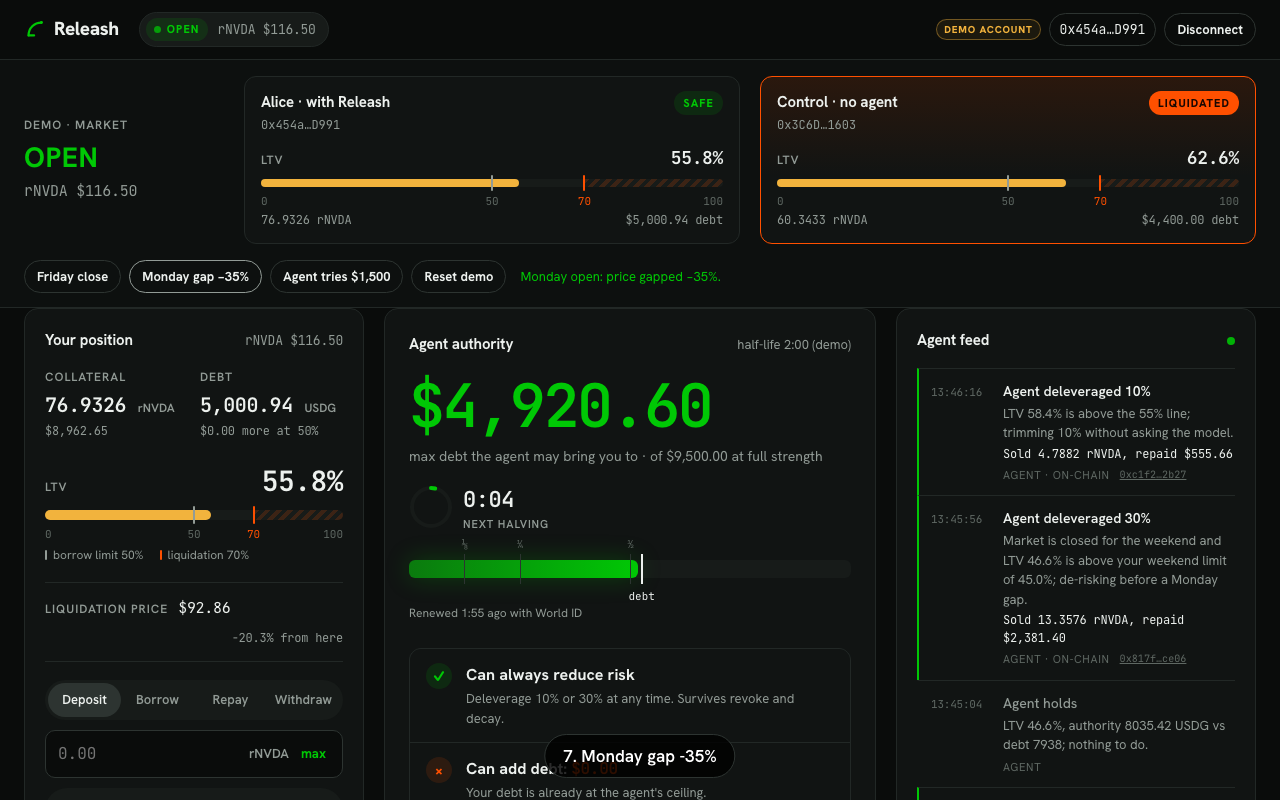
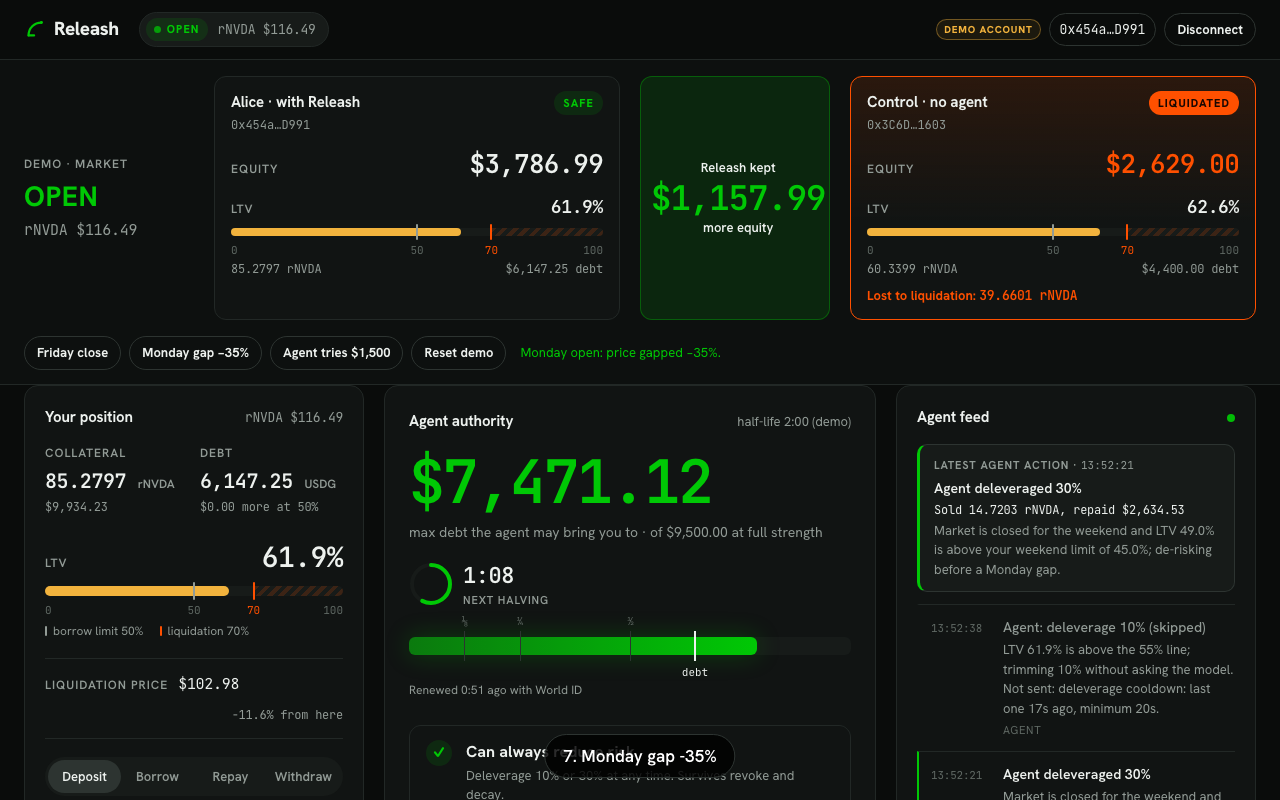
web: equity and lost-to-liquidation in the demo strip with the Releash delta, pinned latest agent action, transient confirmations, reset timer; rehearsal driver

diff --git a/web/src/components/DemoStrip.tsx b/web/src/components/DemoStrip.tsx
@@ -1,5 +1,5 @@
 import { useQueryClient } from "@tanstack/react-query";
-import { useState } from "react";
+import { useEffect, useState } from "react";
 import { getAddress, isAddress, type Address } from "viem";
 import { CONTROL_OWNER, DEMO_KEY, EXPLORER } from "../config";
 import { api, useMarket } from "../lib/backend";
@@ -7,8 +7,23 @@ import { fmtNum, fmtUsd, px8, short, stock, usd } from "../lib/math";
 import { useEvents, useVault, type VaultState } from "../lib/reads";
 import { LtvGauge } from "./LtvGauge";
 
-function Side({ title, tag, owner, state, liquidated }: { title: string; tag: string; owner?: Address; state?: VaultState; liquidated: boolean }) {
-  const status = !state ? "—" : liquidated ? "LIQUIDATED" : state.liquidatable ? "LIQUIDATABLE" : "SAFE";
+type Ev = { name: string; blockNumber: bigint; args: Record<string, unknown> };
+
+/** Liquidations after the position was last opened (Reset demo re-borrows; older runs must not count). */
+function liquidationsSinceOpen(evs?: Ev[]): Ev[] {
+  if (!evs?.length) return [];
+  const opened = evs.reduce((m, e) => (e.name === "Borrowed" && e.blockNumber > m ? e.blockNumber : m), -1n);
+  return evs.filter((e) => e.name === "Liquidated" && e.blockNumber >= opened);
+}
+
+/** Equity = collateral value at the current oracle price minus debt (USDG). */
+export const equityOf = (s?: VaultState) => (s ? usd(s.value) - usd(s.position.debt) : undefined);
+
+function Side({ title, tag, owner, state, events }: { title: string; tag: string; owner?: Address; state?: VaultState; events?: Ev[] }) {
+  const liqs = liquidationsSinceOpen(events);
+  const status = !state ? "—" : liqs.length ? "LIQUIDATED" : state.liquidatable ? "LIQUIDATABLE" : "SAFE";
+  const lost = liqs.reduce((sum, e) => sum + Number(e.args.collateralSeized as bigint) / 1e18, 0);
+  const equity = equityOf(state);
   return (
     <div className={`side side--${status.toLowerCase()}`} data-testid={`side-${tag}`}>
       <div className="side__head">
@@ -20,11 +35,20 @@ function Side({ title, tag, owner, state, liquidated }: { title: string; tag: st
         </div>
         <span className={`pill pill--${status.toLowerCase()}`}>{status}</span>
       </div>
+      <div className="side__equity">
+        <span className="label">Equity</span>
+        <span className="num" data-testid={`equity-${tag}`}>{equity === undefined ? "—" : fmtUsd(equity)}</span>
+      </div>
       <LtvGauge ltvBps={state?.ltvBps ?? 0} size="sm" />
       <div className="side__stats num">
         <span>{state ? fmtNum(stock(state.position.collateral)) : "—"} rNVDA</span>
         <span>{state ? fmtUsd(usd(state.position.debt)) : "—"} debt</span>
       </div>
+      {lost > 0 && (
+        <div className="side__lost" data-testid={`lost-${tag}`}>
+          Lost to liquidation: <span className="num">{fmtNum(lost)} rNVDA</span>
+        </div>
+      )}
     </div>
   );
 }
@@ -68,14 +92,6 @@ export function DemoStrip({ owner, state }: { owner?: Address; state?: VaultStat
   const qc = useQueryClient();
   const [pending, setPending] = useState<string | null>(null);
   const [result, setResult] = useState<{ tone: "ok" | "bad"; text: string; txHash?: string } | null>(null);
-  // Liquidated only counts if it happened after the position was last opened: Reset demo re-borrows,
-  // and an old liquidation must not paint a fresh control red before the gap.
-  const liq = (evs?: { name: string; blockNumber: bigint }[]) => {
-    if (!evs?.length) return false;
-    const last = (n: string) => evs.reduce((m, e) => (e.name === n && e.blockNumber > m ? e.blockNumber : m), -1n);
-    const liquidated = last("Liquidated");
-    return liquidated >= 0n && liquidated >= last("Borrowed");
-  };
 
   async function run(label: string, path: string, body: unknown, describe: (r: never) => { tone: "ok" | "bad"; text: string; txHash?: string }) {
     setPending(label);
@@ -110,6 +126,25 @@ export function DemoStrip({ owner, state }: { owner?: Address; state?: VaultStat
       return { tone: "ok", text: "Demo reset: Alice and the control start again from the same position." };
     });
 
+  // Reset runs a dozen transactions: show it is alive.
+  const [since, setSince] = useState<number | null>(null);
+  const [, tick] = useState(0);
+  useEffect(() => {
+    if (!pending) {
+      setSince(null);
+      return;
+    }
+    setSince(Date.now());
+    const id = setInterval(() => tick((n) => n + 1), 500);
+    return () => clearInterval(id);
+  }, [pending]);
+  const elapsed = since ? Math.floor((Date.now() - since) / 1000) : 0;
+
+  const eqA = equityOf(aliceState);
+  const eqC = equityOf(control.data);
+  const hasBoth = eqA !== undefined && eqC !== undefined && !!aliceState?.position.collateral && !!control.data?.position.collateral;
+  const delta = hasBoth ? eqA! - eqC! : 0;
+
   const busy = !!pending;
   const noKey = !DEMO_KEY;
   return (
@@ -120,16 +155,39 @@ export function DemoStrip({ owner, state }: { owner?: Address; state?: VaultStat
           <strong className={!market.data ? "unknown" : market.data.open === false ? "closed" : ""}>{market.data ? market.data.label : "unknown"}</strong>
           <span className="quiet num">rNVDA {aliceState ? fmtUsd(px8(aliceState.price8)) : "—"}</span>
         </div>
-        <Side title="Alice · with Releash" tag="releash" owner={alice} state={aliceState} liquidated={liq(aliceEvents.data)} />
-        <Side title="Control · no agent" tag="control" owner={controlOwner} state={control.data} liquidated={liq(controlEvents.data)} />
+        <Side title="Alice · with Releash" tag="releash" owner={alice} state={aliceState} events={aliceEvents.data} />
+        <div className={`delta ${hasBoth ? (delta > 0 ? "delta--up" : "delta--down") : ""}`} data-testid="equity-delta" aria-live="polite">
+          {hasBoth ? (
+            delta > 0 ? (
+              <>
+                <span>Releash kept</span>
+                <strong className="num">{fmtUsd(delta)}</strong>
+                <span>more equity</span>
+              </>
+            ) : (
+              <>
+                <span>De-risking cost so far</span>
+                <strong className="num">{fmtUsd(-delta)}</strong>
+                <span>pool slippage</span>
+              </>
+            )
+          ) : (
+            <span className="quiet">Equity difference appears once both positions exist.</span>
+          )}
+        </div>
+        <Side title="Control · no agent" tag="control" owner={controlOwner} state={control.data} events={controlEvents.data} />
       </div>
       <div className="demostrip__controls">
         <button className="btn btn--ghost btn--sm" onClick={close} disabled={busy || noKey} data-testid="demo-close">{pending === "Friday close" ? "Closing…" : "Friday close"}</button>
         <button className="btn btn--ghost btn--sm" onClick={gap} disabled={busy || noKey} data-testid="demo-gap">{pending === "Monday gap" ? "Gapping…" : "Monday gap −35%"}</button>
         <button className="btn btn--ghost btn--sm" onClick={attempt} disabled={busy || noKey || !alice} data-testid="demo-attempt">{pending === "Agent attempt" ? "Agent trying…" : "Agent tries $1,500"}</button>
         <button className="btn btn--ghost btn--sm" onClick={reset} disabled={busy || noKey} data-testid="demo-reset">{pending === "Reset" ? "Resetting…" : "Reset demo"}</button>
-        <span className={`demostrip__result ${result ? `demostrip__result--${result.tone}` : ""}`} role="status" data-testid="demo-result">
-          {noKey ? "Demo controls need VITE_DEMO_KEY." : pending ? `${pending}…` : result?.text}
+        <span className={`demostrip__result ${result ? `demostrip__result--${result.tone}` : ""}`} role="status" data-testid="demo-result" data-pending={pending ? "1" : undefined}>
+          {noKey
+            ? "Demo controls need VITE_DEMO_KEY."
+            : pending
+              ? `${pending}… ${elapsed}s${pending === "Reset" ? " (takes up to a minute)" : ""}`
+              : result?.text}
           {result?.txHash && (EXPLORER ? <a className="mono" href={`${EXPLORER}/tx/${result.txHash}`} target="_blank" rel="noreferrer"> {short(result.txHash)}</a> : <span className="mono"> {short(result.txHash)}</span>)}
         </span>
       </div>

diff --git a/web/src/styles.css b/web/src/styles.css
@@ -299,3 +299,23 @@ main { max-width: 1320px; margin: 0 auto; padding: 0 24px 48px; }
 @media (max-width: 1000px) { .how__grid { grid-template-columns: 1fr; gap: 28px; } }
 @media (max-width: 720px) { .demostrip__controls { padding: 0 16px 12px; } }
 .demostrip__market strong.unknown { color: var(--dim); }
+
+/* ---------------------------------------------------------------- equity (demo money shot) */
+.demostrip__inner { grid-template-columns: 170px minmax(0, 1fr) 190px minmax(0, 1fr); }
+.side__equity { display: flex; align-items: baseline; justify-content: space-between; margin: 2px 0 10px; }
+.side__equity .num { font-size: 26px; font-weight: 600; letter-spacing: -0.03em; }
+.side--liquidated .side__equity .num { color: var(--red); }
+.side__lost { margin-top: 8px; font-size: 13px; font-weight: 700; color: var(--red); }
+.delta { display: grid; align-content: center; justify-items: center; text-align: center; gap: 2px; padding: 10px; border-radius: 12px; font-size: 13px; color: var(--muted); }
+.delta strong { font-size: 30px; line-height: 1.1; letter-spacing: -0.03em; color: var(--text); }
+.delta--up { background: var(--green-soft); border: 1px solid rgba(0, 200, 5, 0.35); }
+.delta--up strong { color: var(--green); font-size: 34px; }
+.delta--up span { color: var(--text); font-weight: 600; }
+.delta--down { border: 1px dashed var(--line-2); }
+@media (max-width: 1100px) { .demostrip__inner { grid-template-columns: 1fr 1fr; } .demostrip__market, .delta { grid-column: 1 / -1; } .delta { grid-auto-flow: column; gap: 10px; align-items: baseline; } }
+@media (max-width: 720px) { .demostrip__inner { grid-template-columns: 1fr; } .delta { grid-auto-flow: row; } }
+.feed__pin { margin: 0 0 12px; padding: 12px 14px; border-radius: 10px; background: var(--surface-2); border: 1px solid var(--line-2); border-left: 3px solid var(--green); animation: rise 0.35s both; }
+.feed__pin--bad { border-left-color: var(--red); background: linear-gradient(90deg, var(--red-soft), var(--surface-2) 70%); }
+.feed__pin--bad .feed__title { color: var(--red); }
+.feed__pin-label { font-size: 11px; text-transform: uppercase; letter-spacing: 0.08em; color: var(--muted); font-weight: 700; margin-bottom: 4px; }
+.feed__pin-label time { text-transform: none; letter-spacing: 0; font-weight: 400; }

diff --git a/web/src/components/Feed.tsx b/web/src/components/Feed.tsx
@@ -106,6 +106,9 @@ export function Feed({ owner }: { owner?: Address }) {
     items = out.slice(0, 80);
   }
 
+  // Pin the newest thing the agent actually did (borrow, deleverage, or a refused attempt).
+  const pinned = items.find((it) => /^(Agent (borrowed|deleveraged)|Blocked on-chain)/.test(it.title));
+
   return (
     <section className="panel feed" aria-labelledby="feed-h">
       <header className="panel__head">
@@ -113,6 +116,14 @@ export function Feed({ owner }: { owner?: Address }) {
         <span className={`dot ${log.isError ? "dot--off" : "dot--on"}`} title={log.isError ? "Agent log unavailable" : "Live"} />
       </header>
       {log.isError && <p className="quiet small notice">Agent log offline. Showing on-chain events only.</p>}
+      {pinned && (
+        <div key={pinned.id} className={`feed__pin feed__pin--${pinned.tone}`} data-testid="feed-pinned">
+          <div className="feed__pin-label">Latest agent action · <time className="num">{new Date(pinned.ts * 1000).toLocaleTimeString("en-GB")}</time></div>
+          <div className="feed__title">{pinned.title}</div>
+          {pinned.effect && <div className="feed__detail feed__effect num">{pinned.effect}</div>}
+          {pinned.detail && <div className="feed__detail">{pinned.detail}</div>}
+        </div>
+      )}
       {!owner ? (
         <p className="empty">Connect to see your agent's decisions.</p>
       ) : items.length === 0 ? (

diff --git a/web/src/lib/tx.ts b/web/src/lib/tx.ts
@@ -1,5 +1,5 @@
 import { useQueryClient } from "@tanstack/react-query";
-import { useState } from "react";
+import { useEffect, useState } from "react";
 import type { Abi, Address } from "viem";
 import { explainError, send } from "./chain";
 import { useSigner } from "./signer";
@@ -39,6 +39,13 @@ export function useTx() {
       await qc.invalidateQueries();
     }
   }
+
+  // "Confirmed on-chain" is a moment, not a state: clear it so it never reads as stale.
+  useEffect(() => {
+    if (!done) return;
+    const id = setTimeout(() => setDone(null), 6000);
+    return () => clearTimeout(id);
+  }, [done]);
 
   const run = async (label: string, calls: Call[] | (() => Call[] | Promise<Call[]>)) => (await attempt(label, calls)) === null;
 

diff --git a/web/rehearsal/REPORT.md b/web/rehearsal/REPORT.md
@@ -49,3 +49,14 @@ manual trigger was needed.
 2. Pin the latest non-hold agent action above the feed list, so the 30% line stays visible during the gap.
 3. Clear the "Confirmed on-chain" notices after about 6 s.
 4. Show an elapsed timer while Reset demo runs, since it can take close to a minute.
+
+## Batch 4 follow-up (13:51–13:54 JST, beats 2, 3, 6, 7 and 9 rerun with `BEATS=2,3,6,7,9`; all pass)
+- **Equity in the demo strip.** Each card now shows equity (collateral at the oracle price minus debt). The control
+  shows "Lost to liquidation: X rNVDA", read from the `Liquidated` events. A column between the cards reads
+  "Releash kept $X more equity". In `07-monday-gap-35.png`: Alice $3,786.99, control $2,629.00, delta $1,157.99, and
+  the control lost 39.66 rNVDA. All of these match `cast` (85.28 × 116.49 − 6,147.25; 60.34 × 116.49 − 4,400).
+- **Delta before the gap.** Right after a reset the delta shows about $800 because the starting debts differ (8,000
+  against 8,800), and pool slippage shows as "De-risking cost so far" until the gap. Both are true, but say it on stage.
+- **Latest agent action is pinned** at the top of the feed. "Confirmed on-chain" clears after 6 s. Reset demo shows an
+  elapsed-seconds counter.
+- The 01–09 screenshots for beats 2, 3, 6, 7 and 9 now show the new UI. Driver: `rehearsal.mjs`; see its header.
